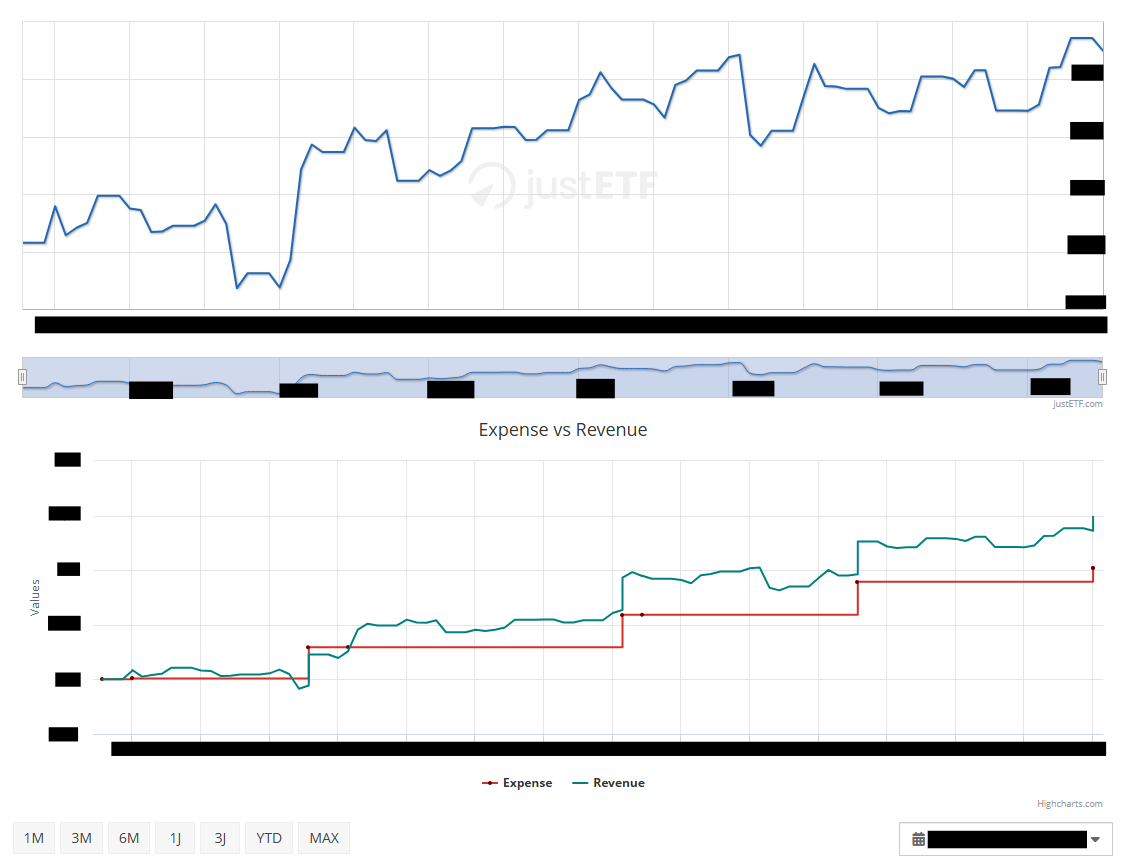
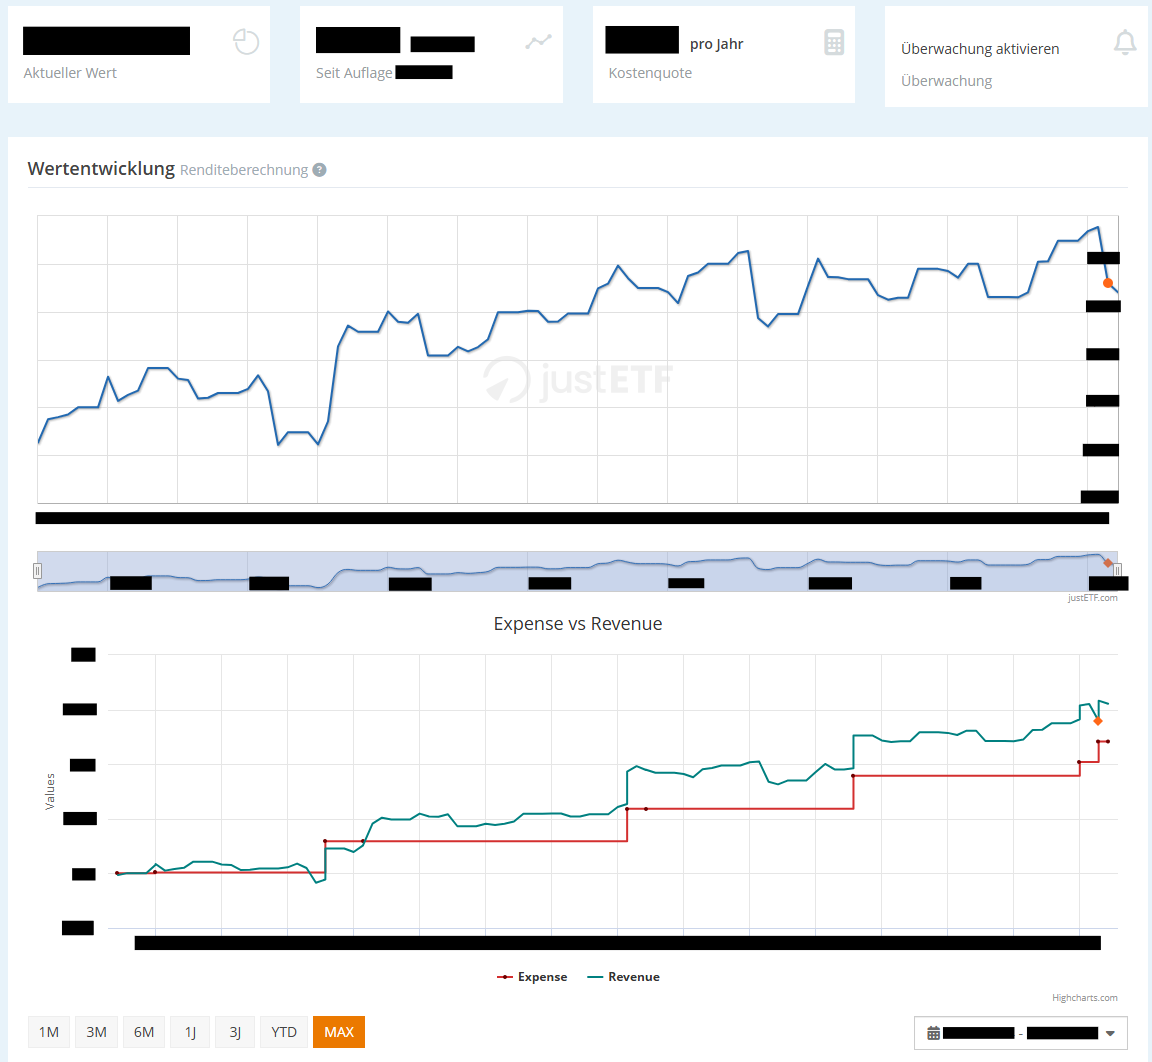
update readme to latest features

diff --git a/README.md b/README.md
@@ -36,10 +36,11 @@ This script is not affiliated with or endorsed by JustETF. It uses data from Jus
 
 ## Features
 
--   A dynamic graph displaying expenses vs revenue over time.
--   Automatically updates when date ranges are modified.
--   Automated expense calculation based on your trade history.
--   A preset default start date for the graph, configurable in investment-expense-vs-revenue-graph.user.js (line 18).
+-   **Dynamic Expense vs. Revenue Graph**: A dynamic graph that visualizes expenses and revenue over time.
+-   **Real-Time Updates**: The graph automatically refreshes when you modify the date ranges.
+-   **Automated Expense Calculation**: Expenses are calculated automatically based on your trade history.
+-   **Configurable Default Start Date**: The graph comes with a preset default start date, which can be configured at [line 22](https://github.com/fl3xm3ist3r/justetf-expense-revenue-graph/blob/master/investment-expense-vs-revenue-graph.user.js#L22).
+-   **Manual Adjustments for Untracked Stocks**: You can make manual adjustments for stocks that JustETF does not track. To implement this, populate the manualAdjustments array at [line 25](https://github.com/fl3xm3ist3r/justetf-expense-revenue-graph/blob/master/investment-expense-vs-revenue-graph.user.js#L25) with the desired delta adjustment amount and the specific date for which you want to apply the adjustment. These manual adjustments will be visually represented by an orange dot on the graphs.
 
 ## Contribution
 
